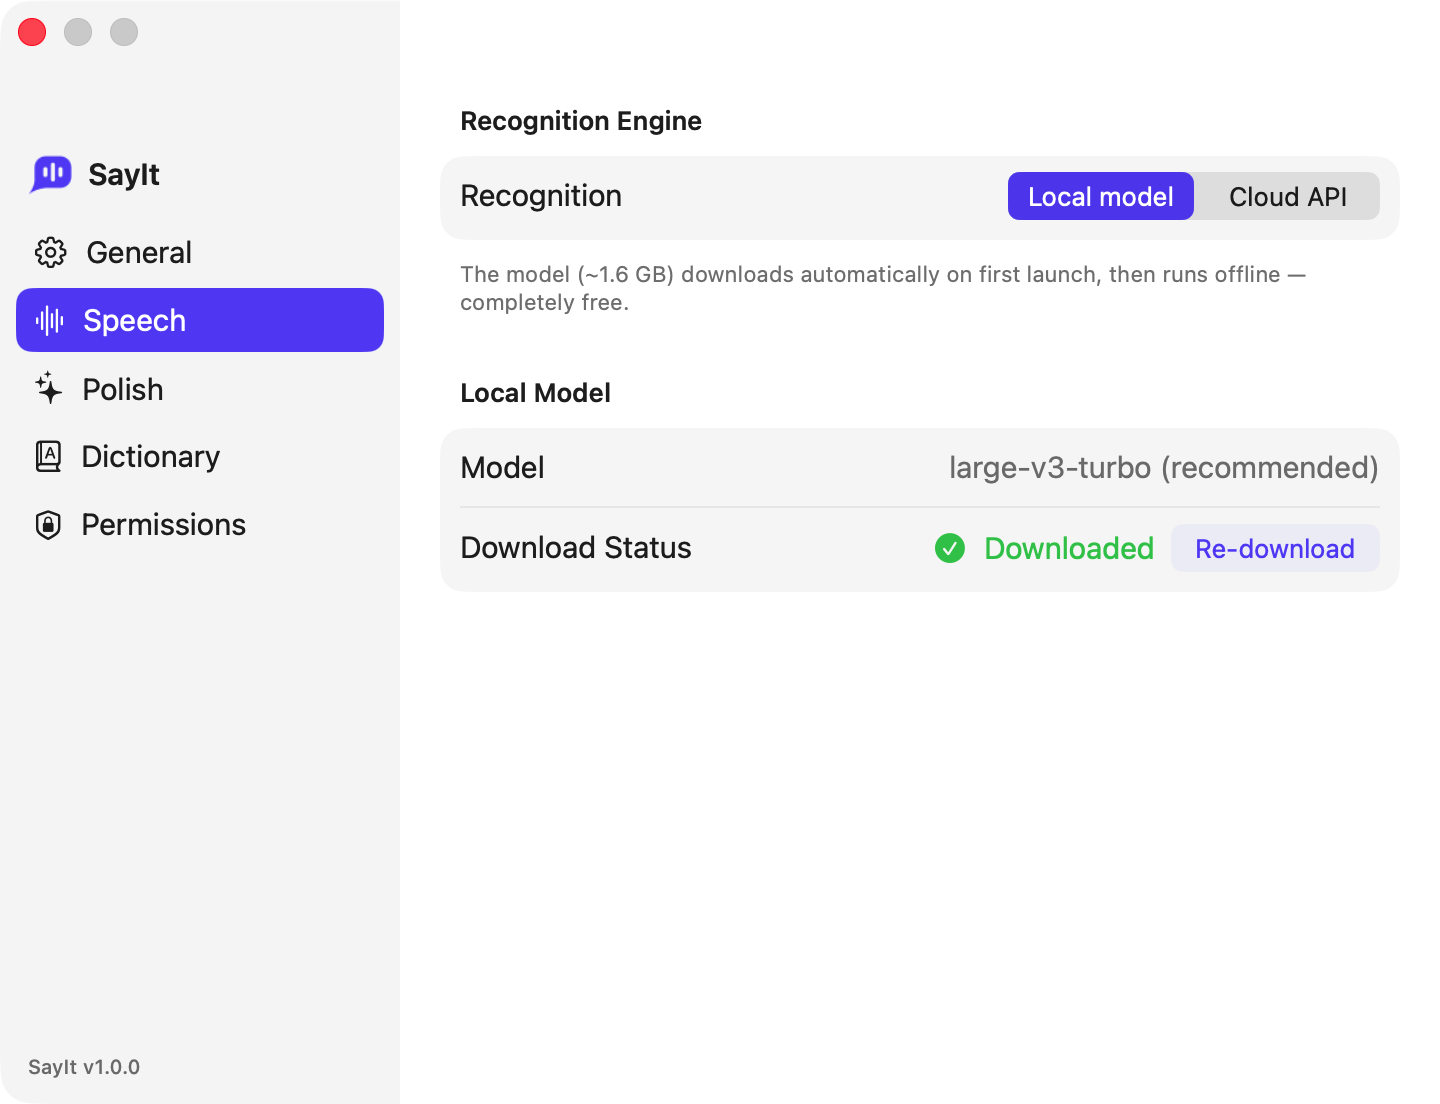
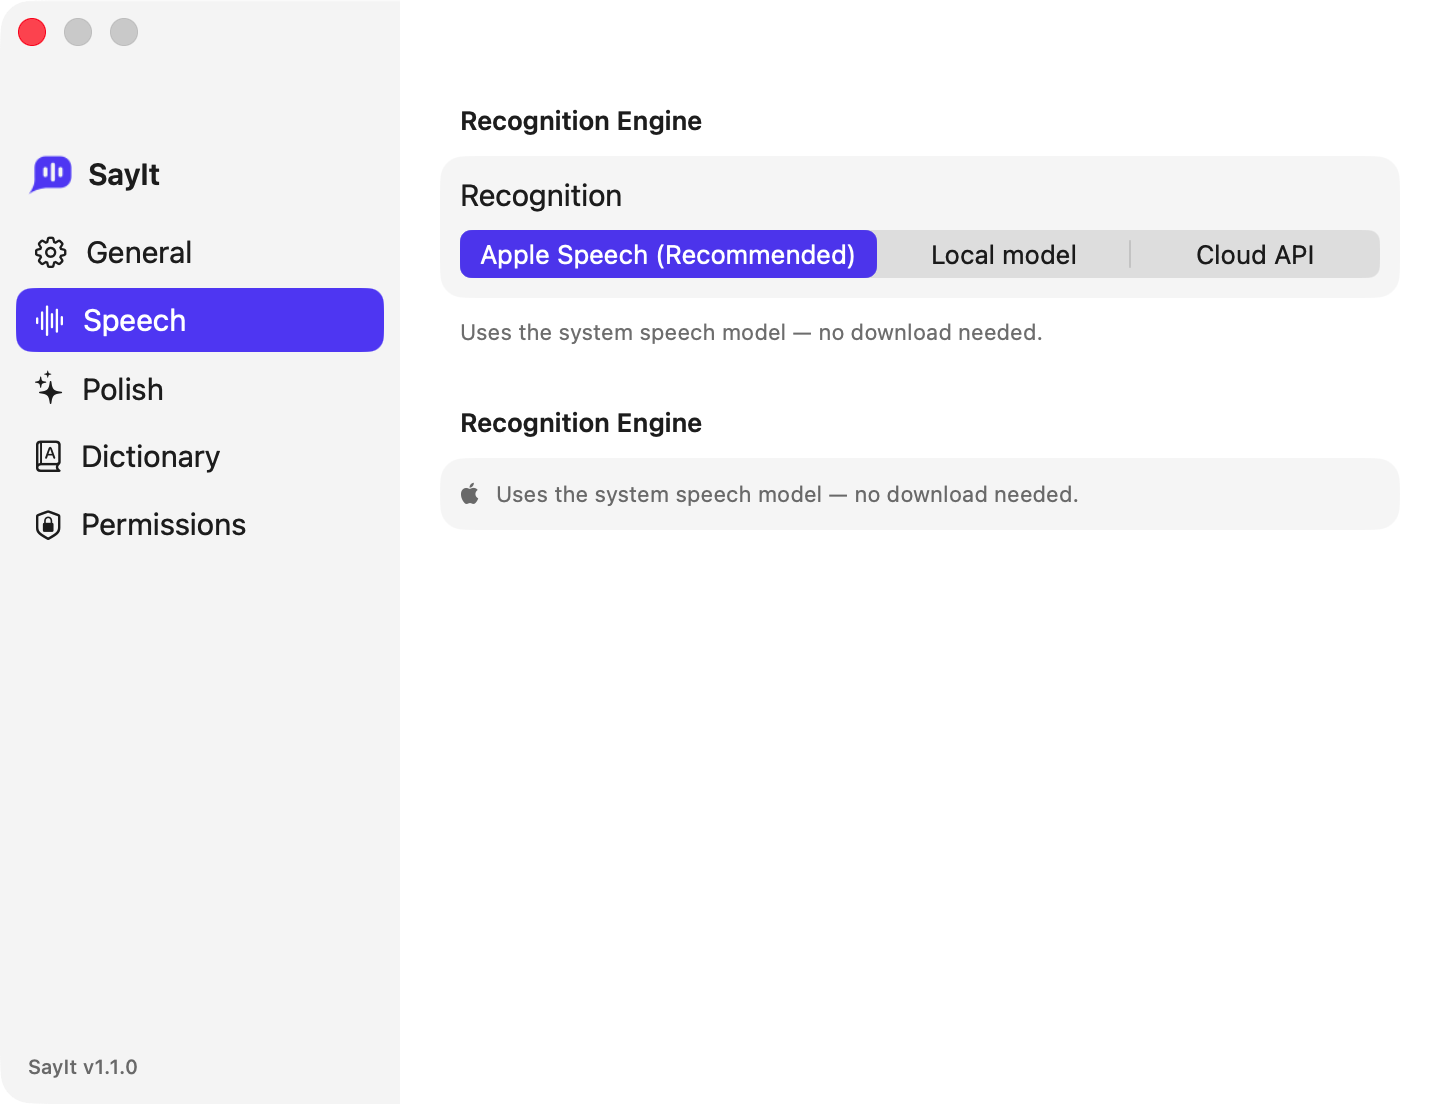
docs: update Speech settings screenshot to show the Apple Speech engine

diff --git a/README.md b/README.md
@@ -79,8 +79,8 @@ and microphone are all in **Settings**.
 
 |  |  |
 |:--:|:--:|
-| <img src="docs/settings-speech.png" width="410" alt="Speech settings — recognition engine and local model"> | <img src="docs/settings-polish.png" width="410" alt="Polish settings — provider, style, and credentials"> |
-| **Speech** — local model or cloud API, and which model | **Polish** — ChatGPT/Codex login or your own API key, plus style and model |
+| <img src="docs/settings-speech.png" width="410" alt="Speech settings — Apple Speech, local model, or cloud API"> | <img src="docs/settings-polish.png" width="410" alt="Polish settings — provider, style, and credentials"> |
+| **Speech** — Apple Speech (macOS 26+), local model, or cloud API | **Polish** — ChatGPT/Codex login or your own API key, plus style and model |
 
 ## Requirements
 

diff --git a/README.zh-CN.md b/README.zh-CN.md
@@ -62,8 +62,8 @@
 
 |  |  |
 |:--:|:--:|
-| <img src="docs/settings-speech.png" width="410" alt="语音设置——识别引擎与本地模型"> | <img src="docs/settings-polish.png" width="410" alt="润色设置——服务方、风格与登录凭据"> |
-| **语音** —— 本地模型或云端 API，以及用哪个模型 | **润色** —— 登录 ChatGPT/Codex 或填你自己的 API Key，外加风格和模型 |
+| <img src="docs/settings-speech.png" width="410" alt="语音设置——Apple 语音、本地模型或云端 API"> | <img src="docs/settings-polish.png" width="410" alt="润色设置——服务方、风格与登录凭据"> |
+| **语音** —— Apple 语音（macOS 26+）、本地模型或云端 API | **润色** —— 登录 ChatGPT/Codex 或填你自己的 API Key，外加风格和模型 |
 
 ## 环境要求
 
